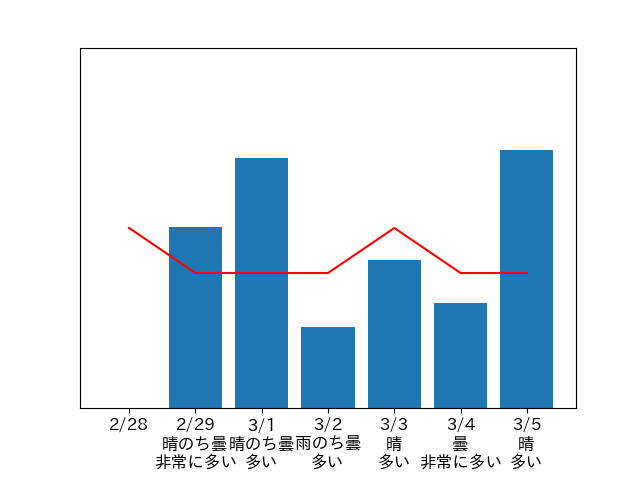
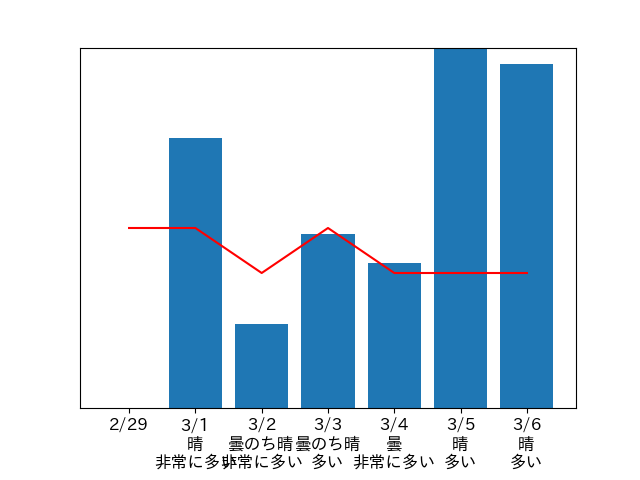
テーブル仕事時間考慮

diff --git a/python_app/initial_page/templates/week_plan.html b/python_app/initial_page/templates/week_plan.html
@@ -12,11 +12,10 @@
 <body>
     <p style="text-align: center;padding-top: 50px;"><label style="font-size: 300%;">週間スケジュール</label></p>
     <p class="figure_today"><img id="graph" src='{% static "table.png" %}' alt="graph" border="0"></p>
-    <p class="label_weekly_plan" style="font-size: 200%;">推奨日は
-        <p>月曜</p><p class="label_weekly_plan">{% for idx in mon_plan %}{{ idx }}　{% endfor %}</p>
-        <p>火曜</p><p class="label_weekly_plan">{% for idx in tue_plan %}{{ idx }}　{% endfor %}</p>
-        <p>水曜</p><p class="label_weekly_plan">{% for idx in wed_plan %}{{ idx }}　{% endfor %}</p>
-    </p>
+    <p class="label_weekly_plan"><label style="font-size: 250%;">最も推奨する日にちは 　{{1st_plan_date}}　の　{{1st_plan_time}}時</label></p>
+    <p class="label_weekly_plan"><label style="font-size: 200%;">他　　{{2nd_plan_date}}　の　{{2nd_plan_time}}時</label></p>
+    <p class="label_weekly_plan"><label style="font-size: 200%;">他　　{{3rd_plan_date}}　の　{{3rd_plan_time}}時</label></p>
+    
     <p style="text-align: center;"><label style="font-size: 200%;">です！</label></p>
     <p class="btn5_pos" style="padding-top: 50px;"><button type="button" id="btn5" onclick="getJSONForm('http://' + ipaddr + ':8000/initial/usual');">戻る</button></p>
 </body>

diff --git a/python_app/static/script/Datastore.js b/python_app/static/script/Datastore.js
@@ -18,7 +18,7 @@
 //（重要）送信（リクエスト）することで、python上での受け渡しが可能（重要）
 
 //////////////////////////////////////////////////////////////////////////////////
-ipaddr = "192.168.2.108";
+ipaddr = "192.168.2.101";
 
 
 function setPostNumber(){

diff --git a/python_app/initial_page/python/weekly_suggest_tb.py b/python_app/initial_page/python/weekly_suggest_tb.py
@@ -10,7 +10,7 @@ import pandas as pd
 import matplotlib.pyplot as plt
 from matplotlib import colors
 
-def createPenmanArray(postnumber):
+def createPenmanArray(postnumber, startTime, endTime):
     #1時〜0時
     #晴れ　2020/2/25 9:00:00、座標：35.40N 137.00E
     isola_sunny = [0.000001,0.000001,0.000001,0.000001,0.000001,0.000001,0.09,0.75,1.44,2.01,2.42,2.64,2.66,2.47,2.09,1.54,0.86,0.16,0.000001,0.000001,0.000001,0.000001,0.000001,0.000001]
@@ -24,6 +24,7 @@ def createPenmanArray(postnumber):
     week = []
     penmanArray = []
     time_index = []
+    worktime = workTimeArray(startTime, endTime)
 
     #当日のデータ
     week.append(tenki_jp_day(postnumber))
@@ -51,10 +52,12 @@ def createPenmanArray(postnumber):
     #当日
     maxtime = 24    #24時間
     for j in range(maxtime):
-        if '晴れ' in week[0][j][1]:
+        if ( ('晴れ' in week[0][j][1]) & ( week[0][j][0] not in worktime ) ):
             day.append( round(10000 / penman.penman(float(week[0][j][2]), float(week[0][j][5]), float(week[0][j][7]), isola_sunny[j]), 3))
-        elif '曇り' in week[0][j][1]:
+        elif ( ('曇り' in week[0][j][1]) & ( week[0][j][0] not in worktime )  ):
             day.append( round(10000 / penman.penman(float(week[0][j][2]), float(week[0][j][5]), float(week[0][j][7]), isola_cloudy[j]), 3))
+        elif week[0][j][0] in worktime:
+            day.append(-1)
         else:
             day.append( round(10000 / penman.penman(float(week[0][j][2]), 100, float(week[0][j][7]), isola_rainy), 3))
         time_index.append(week[0][j][0])
@@ -66,14 +69,16 @@ def createPenmanArray(postnumber):
     for i in range(1, 7):           #6日間
         for j in range(4):          #4区切り(6時間毎)
             for n in range(6):      #1区切りに6個のデータ
-                if '晴' == week[i][j][1]:
+                if ( ('晴' == week[i][j][1]) & (week[0][isola_index][0] not in worktime )):
                     day.append( round(10000 / penman.penman(float(week[i][j][2]), float(week[i][j][4]), float(week[i][j][5]), isola_sunny[isola_index]), 3))
-                elif '曇' == week[i][j][1]:
+                elif ( ('曇' == week[i][j][1]) & (week[0][isola_index][0] not in worktime )):
                     day.append( round(10000 / penman.penman(float(week[i][j][2]), float(week[i][j][4]), float(week[i][j][5]), isola_cloudy[isola_index]), 3))
-                elif '晴のち曇' == week[i][j][1]:
+                elif ( ('晴のち曇' == week[i][j][1]) & (week[0][isola_index][0] not in worktime )):
                     day.append( round(10000 / penman.penman(float(week[i][j][2]), float(week[i][j][4]), float(week[i][j][5]), isola_cloudy[isola_index]), 3))
-                elif '曇のち晴' == week[i][j][1]:
+                elif ( ('曇のち晴' == week[i][j][1]) & (week[0][isola_index][0] not in worktime )):
                     day.append( round(10000 / penman.penman(float(week[i][j][2]), float(week[i][j][4]), float(week[i][j][5]), isola_sunny[isola_index]), 3))
+                elif week[0][isola_index][0]  in worktime:
+                    day.append(-1)
                 else:
                     day.append( round(10000 / penman.penman(float(week[i][j][2]), 100, float(week[i][j][5]), isola_rainy), 3))
                 isola_index += 1
@@ -83,60 +88,113 @@ def createPenmanArray(postnumber):
 
     return penmanArray, time_index, date_colum
 
+
 #テーブル作成
 def createTable(array, time_index, date_colum):
     array_t = np.array(array).T
-    max_index_array = []
     df = pd.DataFrame(array_t, index=time_index, columns=date_colum)
-    #df.style.background_gradient(cmap='winter')
-    #df.plot()
-    #print(df)
-    #colors = plt.cm.BuPu(np.linspace(0, 0.5, len(array)))
+
     fig, ax = plt.subplots(figsize=(10,10))
     ax.axis('off')
     ax.axis('tight')
     ax.table(cellText=df.values,
              colLabels=df.columns,
              rowLabels=df.index,
-             cellColours=coloring(array_t, max_index_array)
+             cellColours=coloring(array_t),
              loc='center',
              bbox=[0,0,1,1])
 
     plt.savefig('./static/table.png')
     plt.clf()
 
-    for maxdata_pos in max_index_array:
-        print(array_t[max_index_array])
+    df_max_week_index = df.idxmax()
+    Dict = {
+        df[df_max_week_index.index[0]][df_max_week_index.values[0]]:[df_max_week_index.index[0], df_max_week_index.values[0]],
+        df[df_max_week_index.index[1]][df_max_week_index.values[1]]:[df_max_week_index.index[1], df_max_week_index.values[1]],
+        df[df_max_week_index.index[2]][df_max_week_index.values[2]]:[df_max_week_index.index[2], df_max_week_index.values[2]],
+        df[df_max_week_index.index[3]][df_max_week_index.values[3]]:[df_max_week_index.index[3], df_max_week_index.values[3]],
+        df[df_max_week_index.index[4]][df_max_week_index.values[4]]:[df_max_week_index.index[4], df_max_week_index.values[4]],
+        df[df_max_week_index.index[5]][df_max_week_index.values[5]]:[df_max_week_index.index[5], df_max_week_index.values[5]],
+        df[df_max_week_index.index[6]][df_max_week_index.values[6]]:[df_max_week_index.index[6], df_max_week_index.values[6]]
+    }
+    sortedDict = sorted(Dict.items())
+    max_3rank = [sortedDict[-1], sortedDict[-2], sortedDict[-3]]
+    
+    return max_3rank
 
-def executeCreateTable(postnumber):
-    data, time, date = createPenmanArray(postnumber)
-    createTable(data, time, date)
+def workTimeArray(startTime, endTime):
+    #文字処理
+    startTime = startTime.split(':')[0]
+    endTime = endTime.split(':')[0]
 
-def coloring(data, max_index_array):
+    workTime = []
+
+    timeDict = {
+        '00':0,
+        '01':1,
+        '02':2,
+        '03':3,
+        '04':4,
+        '05':5,
+        '06':6,
+        '07':7,
+        '08':8,
+        '09':9,
+        '10':10,
+        '11':11,
+        '12':12,
+        '13':13,
+        '14':14,
+        '15':15,
+        '16':16,
+        '17':17,
+        '18':18,
+        '19':19,
+        '20':20,
+        '21':21,
+        '22':22,
+        '23':23
+    }
+
+    time_range = timeDict[endTime] - timeDict[startTime]
+
+    for i in range(timeDict[startTime], timeDict[endTime]+1):
+        keys = [k for k, v in timeDict.items() if v == i]
+        workTime.append(keys[0])
+    
+    print(workTime)
+    return workTime
+
+def executeCreateTable(postnumber, startTime, endTime):
+    data, time, date = createPenmanArray(postnumber, startTime, endTime)
+
+    return createTable(data, time, date)
+
+    #color list array
+def coloring(data):
     color_data = np.full((24, 7), '1111111')
 
     level = data.max()
     i, j = 0, 0
     for day in data:
         for val in day:
-            if ( level*(3/4) < val <=  level):
-                color_data[i][j] = '#FF0000'
-                max_index_array.append([i, j])
-            elif ( level*(2/4) < val <=  level*(3/4)):
-                color_data[i][j] = '#FFA500' #orangered
-            elif ( level*(1/4) < val <=  level*(2/4)):
-                color_data[i, j] = '#00FFFF'
-            elif ( 0 <= val <=  level*(1/4)):
-                color_data[i][j] = '#1E90FF' #dodgerblue
+            if ( level*(3/4) < val <=  level ):
+                color_data[i][j] = '#F08080'
+            elif ( level*(2/4) < val <=  level*(3/4) ) :
+                color_data[i][j] = '#FFDEAD' #orangered
+            elif ( level*(1/4) < val <=  level*(2/4) ) :
+                color_data[i, j] = '#48D1CC'
+            elif ( 0 <= val <=  level*(1/4) ) :
+                color_data[i][j] = '#6495ED' #dodgerblue
             else:
                 color_data[i][j] = '#708090' #slategray
             j += 1
-
         j = 0
         i += 1
-    #color list array
+
+ 
     return color_data
 
 if __name__ == "__main__":
-    pass
     #executeCreateTable('2591206')
+    pass

diff --git a/python_app/initial_page/views.py b/python_app/initial_page/views.py
@@ -107,17 +107,16 @@ def weekly_plan(request):
         scale = userData[3]
     #スクレイピングのデータとdatabaseのデータより提案の処理、グラフをpng変換
 
-    executeCreateTable(postnumber)
+    rank3 = executeCreateTable(postnumber, starttime, endtime)
     d = {
-        'mon_plan':["8:00 ~ 9:00", "9:00 ~ 10:00"],
-        'tue_plan':["11:00 ~ 14:00"],
-        'wed_plan':["8:00 ~ 9:00", "9:00 ~ 10:00", "11:00 ~ 12:00"],
-        'thr_plan':["8:00 ~ 9:00"],
-        'fri_plan':["8:00 ~ 9:00", "9:00 ~ 10:00", "16:00 ~ 17:00", "20:00 ~ 21:00", "22:00 ~ 24:00"],
-        'sat_plan':["8:00 ~ 9:00", "10:00 ~ 11:00"],
-        'sun_plan':["8:00 ~ 24:00"],
+        '1st_plan_date':rank3[0][1][0],
+        '1st_plan_time':rank3[0][1][1],
+        '2nd_plan_date':rank3[1][1][0],
+        '2nd_plan_time':rank3[1][1][1],
+        '3rd_plan_date':rank3[2][1][0],
+        '3rd_plan_time':rank3[2][1][1],
     }
-    return render(request, 'week_plan.html')
+    return render(request, 'week_plan.html', d)
 
 
 

diff --git a/python_app/python_app/settings.py b/python_app/python_app/settings.py
@@ -27,7 +27,7 @@ DEBUG = True
 
 #aonuma
 #home server address
-ALLOWED_HOSTS = ['192.168.2.108']
+ALLOWED_HOSTS = ['192.168.2.101']
 #18 wifi
 #ALLOWED_HOSTS = ['10.10.92.155']
 #5 jitu
